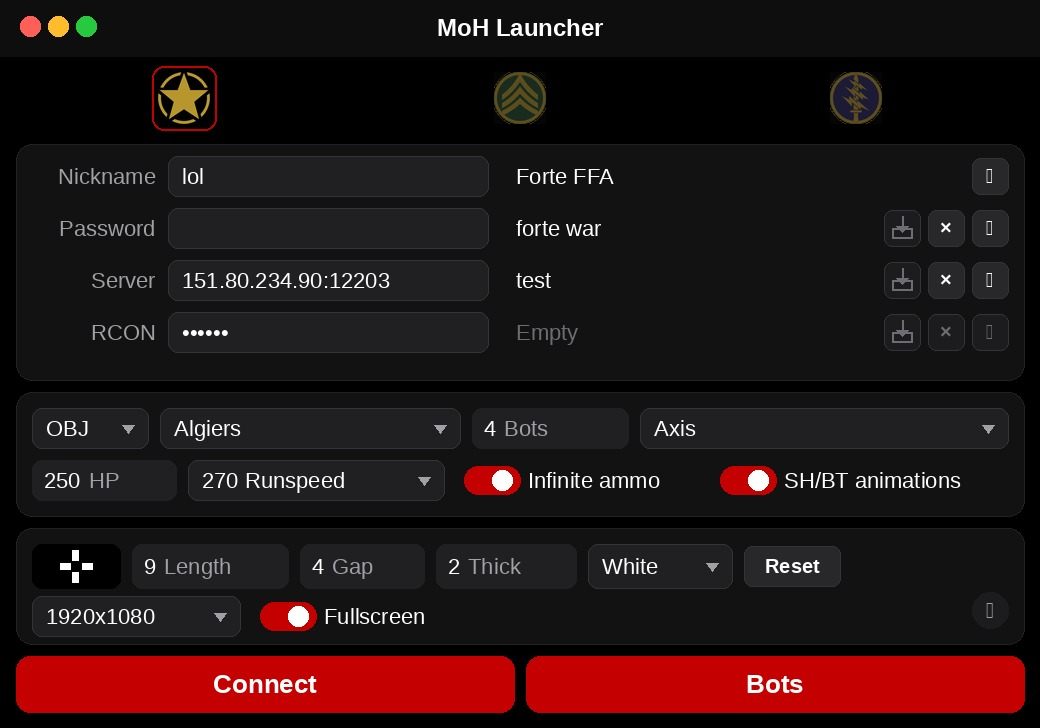
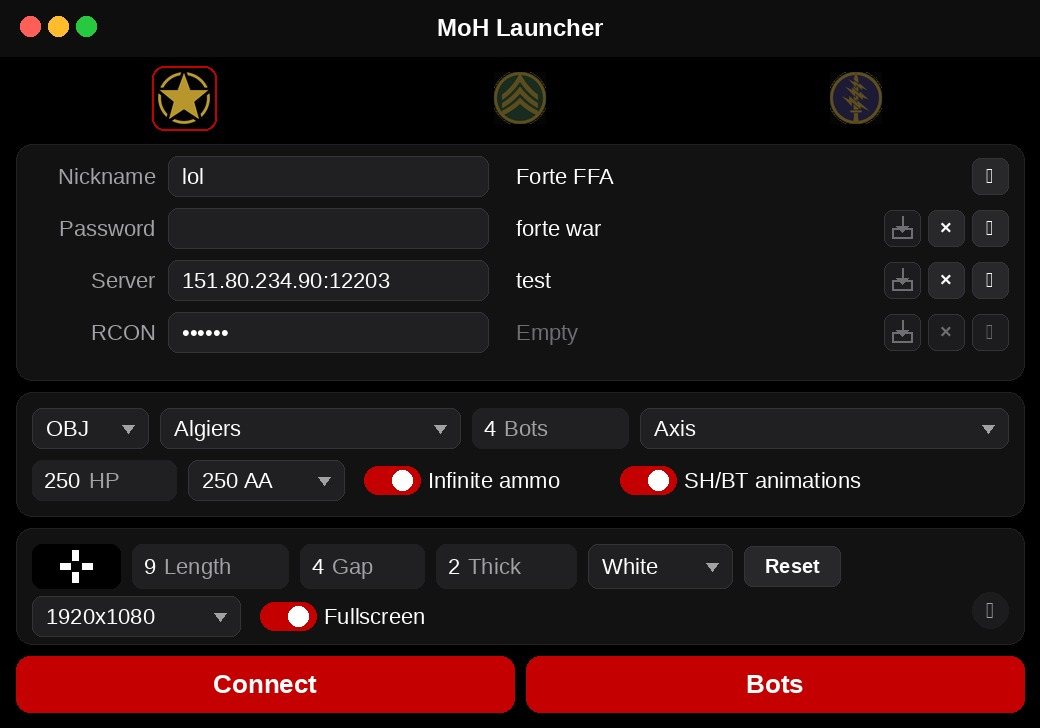
Label the Allied Assault and Spearhead run speeds
The menu shows 250 AA and 287 SH. The speeds in between still say Runspeed.

Changed region(s): [[0.2154, 0.6346, 0.9231, 0.6951]]

diff --git a/Launcher.swift b/Launcher.swift
@@ -158,6 +158,15 @@ struct Config: Equatable {
         runSpeeds.min { abs($0 - speed) < abs($1 - speed) } ?? runSpeeds[0]
     }
 
+    /// 250 is Allied Assault. 287 is Spearhead, and Breakthrough uses it too.
+    static func runSpeedLabel(_ speed: Int) -> String {
+        switch speed {
+        case 250: return "250 AA"
+        case 287: return "287 SH"
+        default: return "\(speed) Runspeed"
+        }
+    }
+
     /// One of the named crosshair colors, or white.
     static func color(_ value: String) -> String {
         let hex = (value.hasPrefix("#") ? String(value.dropFirst()) : value).uppercased()
@@ -729,7 +738,7 @@ struct LauncherView: View {
             UnitField(value: $config.health, range: 1...1000, step: 25, unit: "HP")
                 .help("Player health")
             Picker("", selection: $config.runSpeed) {
-                ForEach(Config.runSpeeds, id: \.self) { Text("\($0) Runspeed").tag($0) }
+                ForEach(Config.runSpeeds, id: \.self) { Text(Config.runSpeedLabel($0)).tag($0) }
             }
             .labelsHidden()
             .fixedSize()

diff --git a/README.md b/README.md
@@ -2,7 +2,7 @@
 
 MoH Launcher for MoHAA. The window is black, with red controls.
 
-![Launcher](preview.jpg?v=16)
+![Launcher](preview.jpg?v=17)
 
 Connect opens `openmohaa.app`. Bots opens `mohbots.app`. The first shortcut is Forte FFA and cannot be changed.
 
